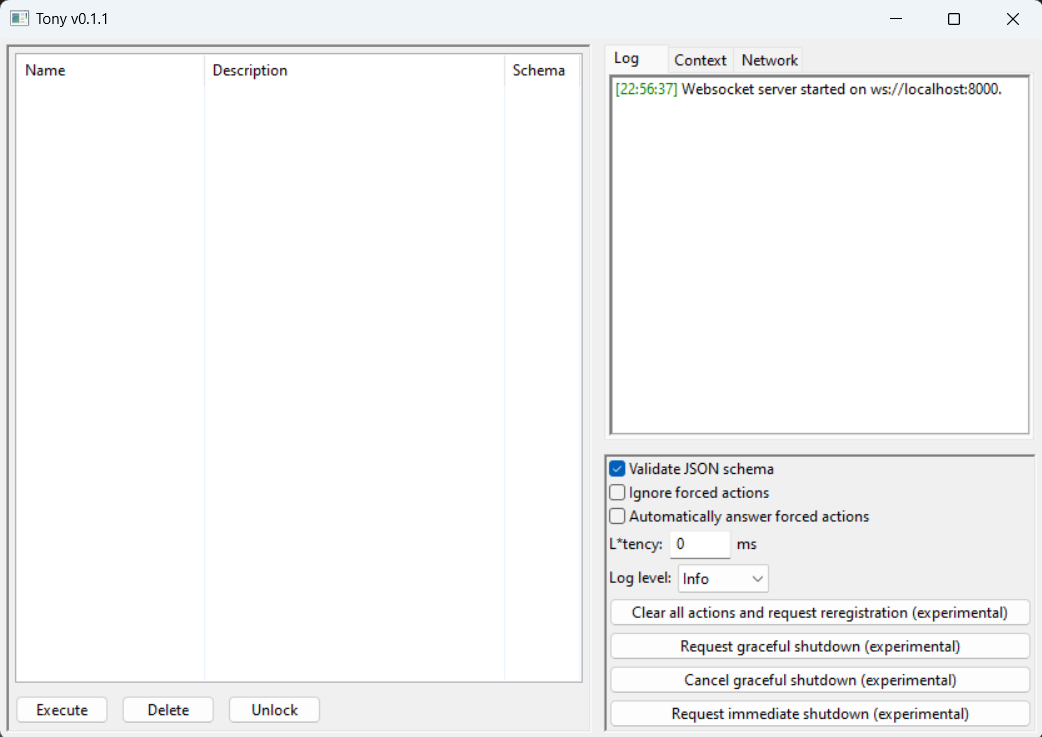
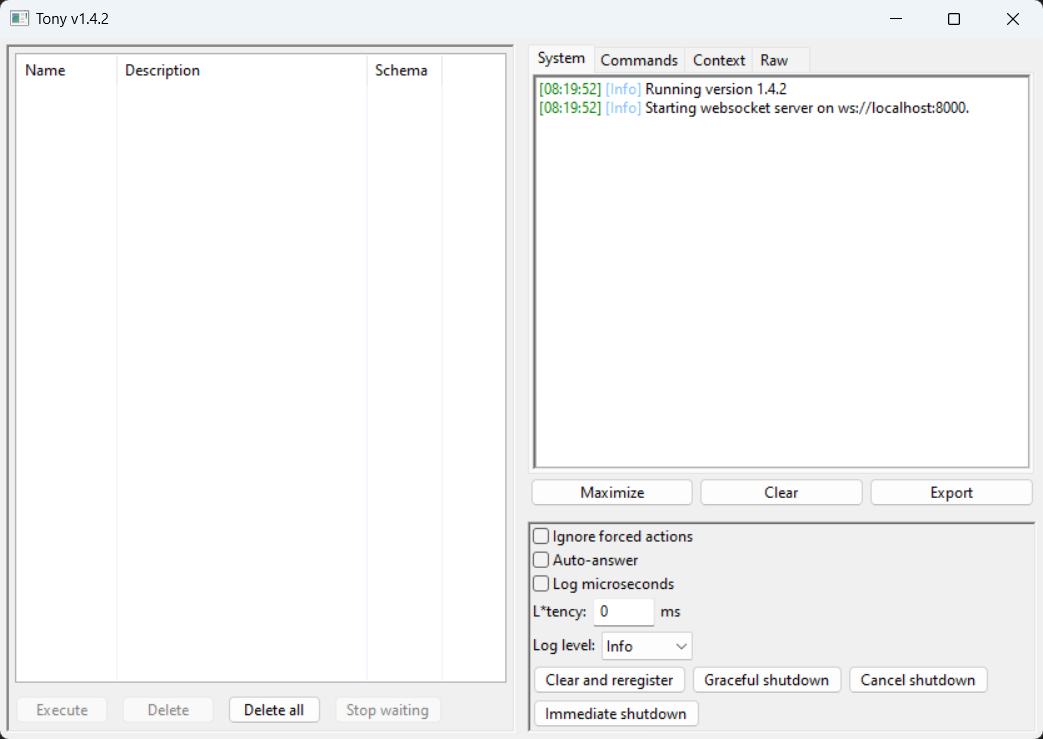
Update README.md

diff --git a/README.md b/README.md
@@ -245,16 +245,16 @@ The log panel on the top right has three different tabs:
 
 #### Normal controls
 
-The control panel has some checkboxes and buttons that change the behavior of the application.
+The control panel has some checkboxes and buttons that change the behavior of the application (Some of these controls have been moved elsewhere).
 
-- **Validate JSON schema:** If checked, will not allow you to send a message that does not validate against the schema.
 - **Ignore forced actions:** If checked, will not open the "Forced action" dialog when an `actions/force` command is received. You have to execute the action yourself from the left panel. Since the forced action is ignored, you can execute any registered action.
-- **Automatically answer forced actions**: If checked, will immediately send the pre-generated JSON of a random valid action instead of opening the "Forced action" window when an `actions/force` command arrives. This behavior is similar to what Randy does.
+- **Auto-answer**: If checked, will immediately send the pre-generated JSON of a random valid action instead of opening the "Forced action" window when an `actions/force` command arrives. This behavior is similar to what Randy does.
 - **L\*tency:** Will delay sending commands by the specified time. Must be non-negative and not greater than 10000ms.
 - **Log level:** Will show only messages with an equal of higher log level than the selection. For example, selecting "Warning" will not show Debug or Info messages, but still show Warning, Error and System messages.
-- **Clear logs:** Clears all log tabs and the export log.
-- **Export logs:** Opens a dialog to save the logs to a file. If you submit a bug report, consider attaching this file. All messages will be included, regardless of configured log level.
-- **Maximize log panel:** Maximizes the log panel to fill the entire window. Can be restored using the **restore size** button.
+- **Clear:** Clears all log tabs and the export log.
+- **Export:** Opens a dialog to save the logs to a file. If you submit a bug report, consider attaching this file. All messages will be included, regardless of configured log level.
+- **Maximize:** Maximizes the log panel to fill the entire window. Can be restored using the **restore size** button.
+- **Don't validate:** If checked, will allow you to send a message that does not validate against the schema or contains invalid JSON.
 
 #### Experimental controls
 

diff --git a/TODO.md b/TODO.md
@@ -1,10 +1,8 @@
 # TODO
 
 - Close connection manually
-- Double click to execute action
-- Update README
-    - New screenshots
 - Log client connection
+- Right click menu
 - Action result timeout warning
 - Detect colors / names in schema
 
